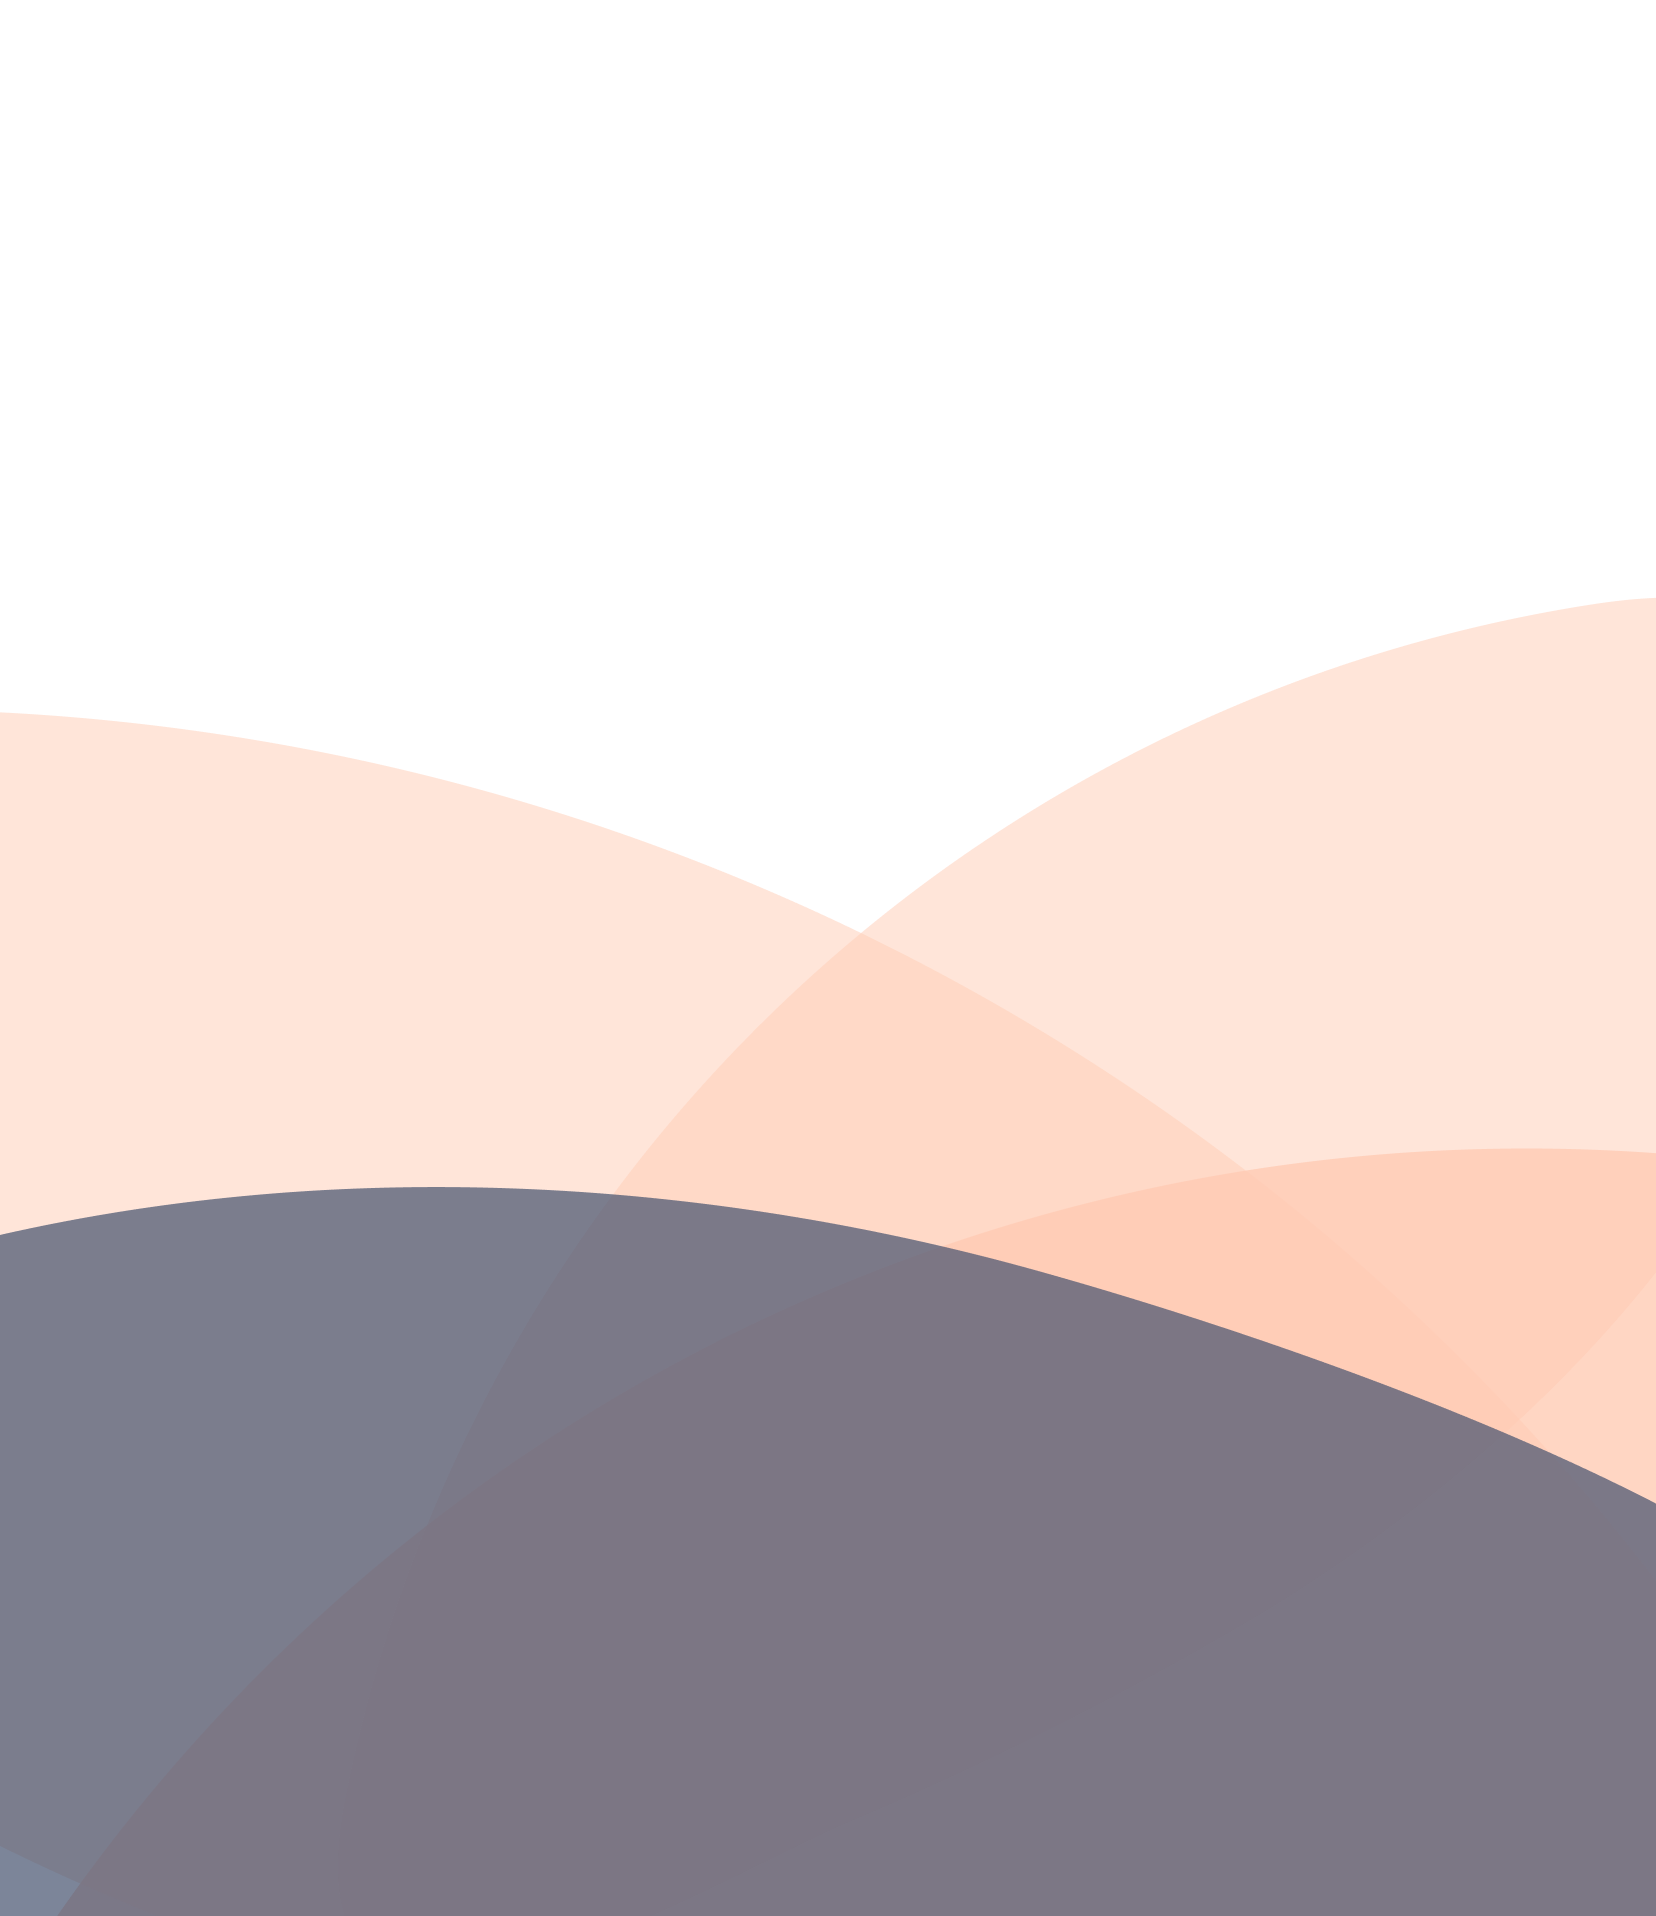
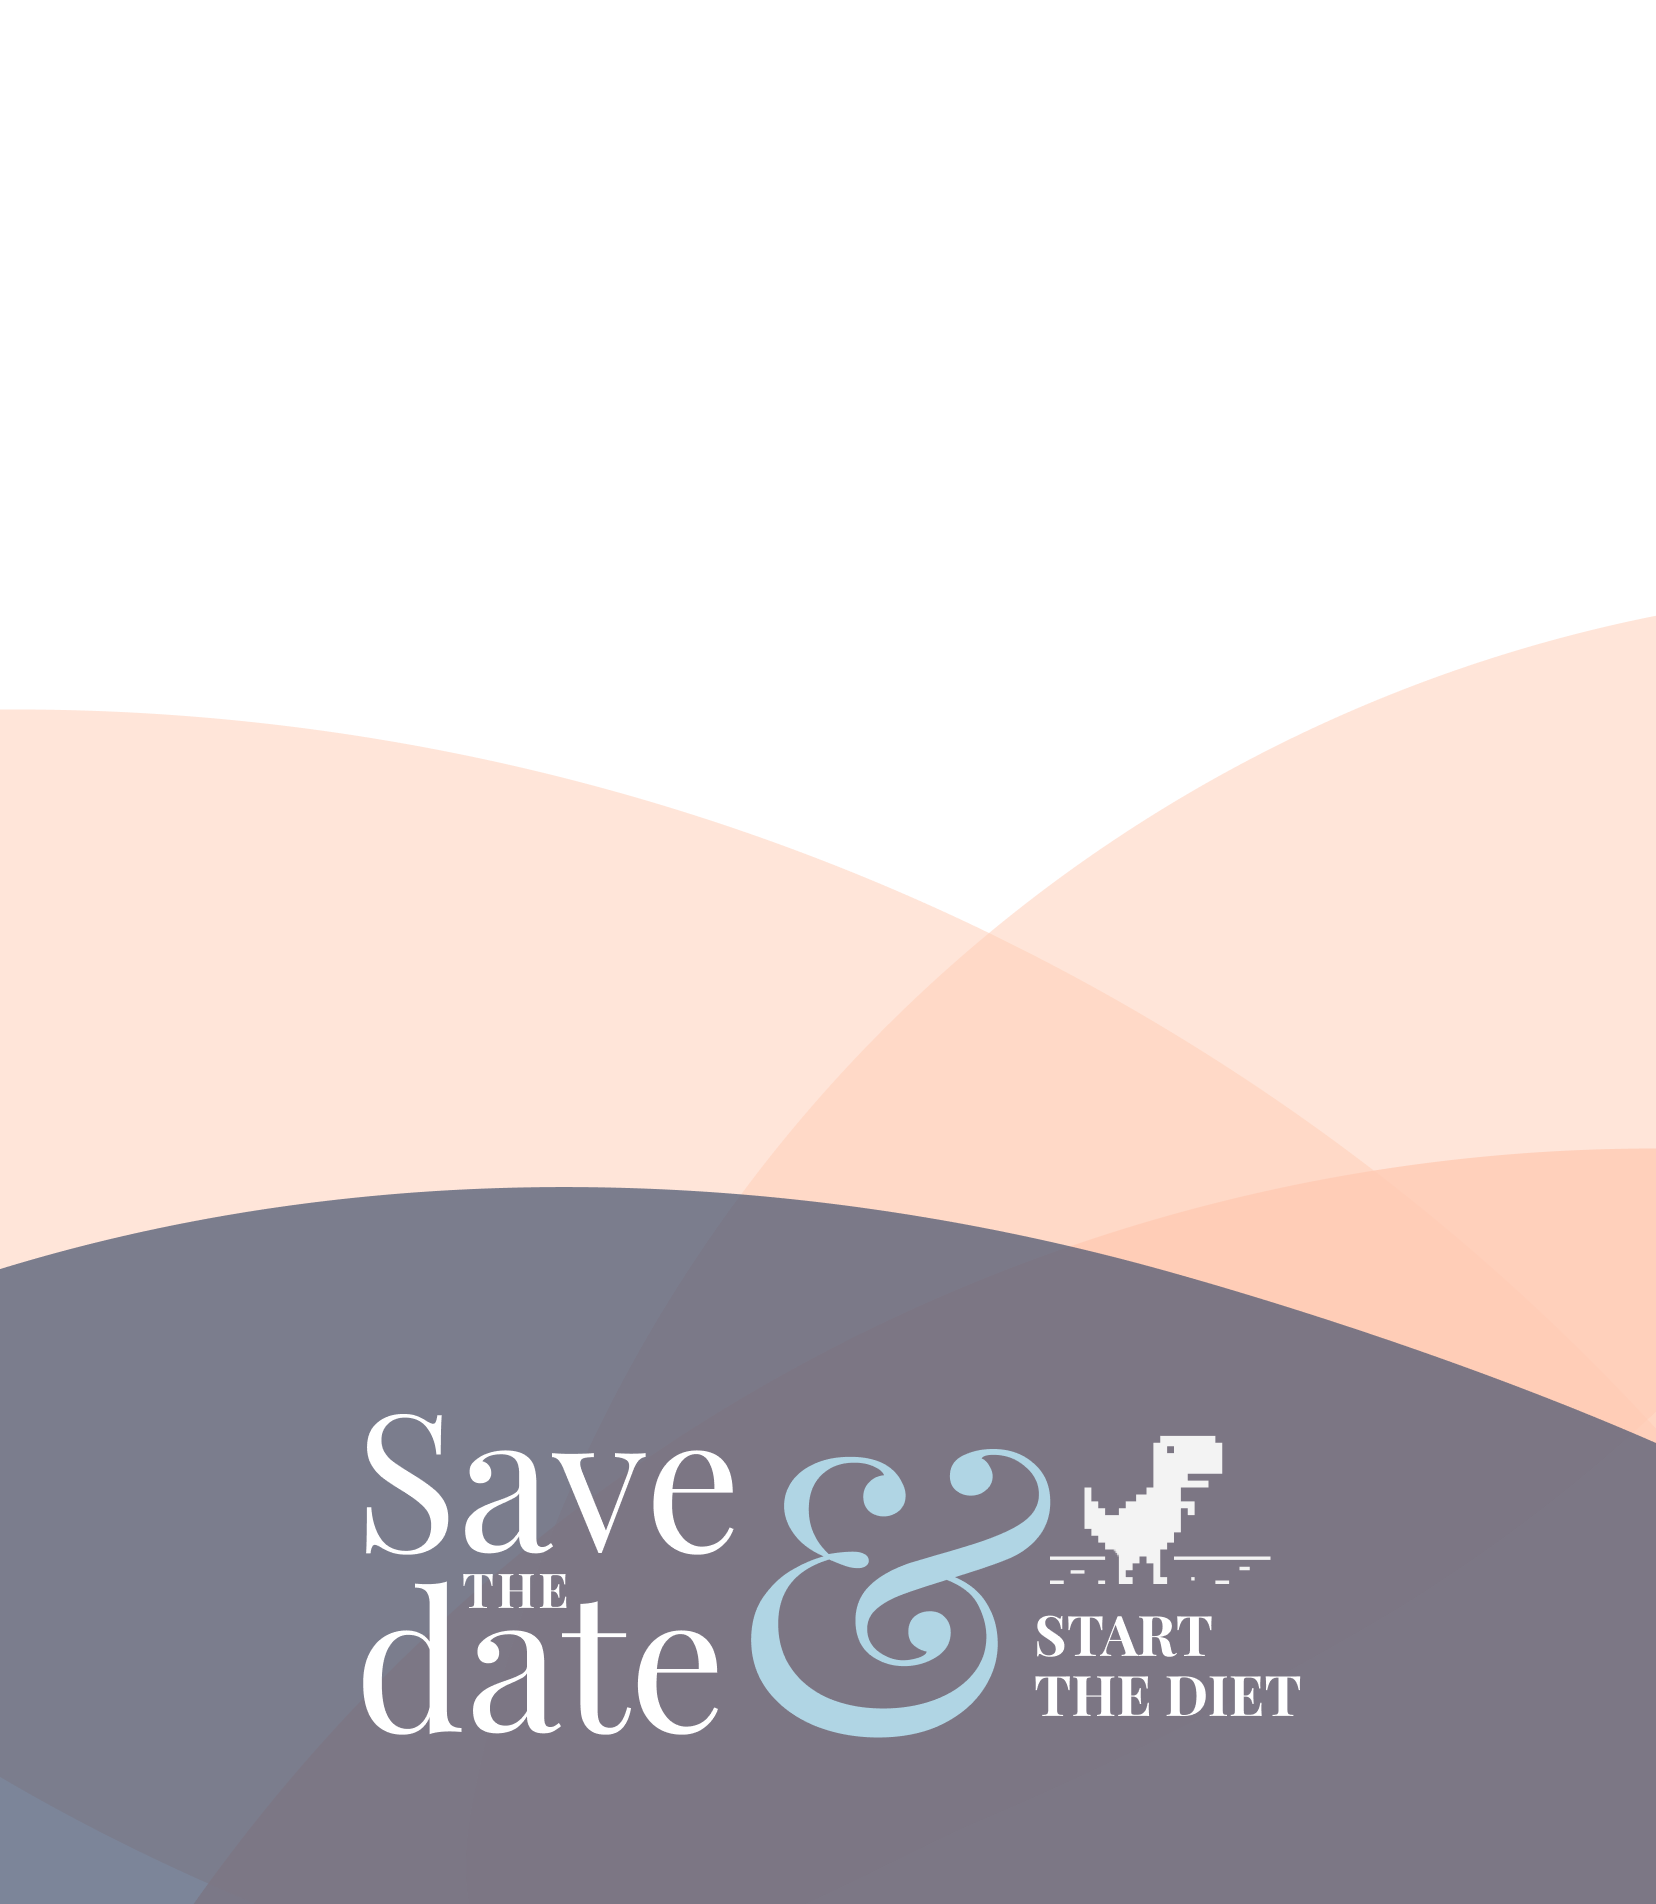
Fixed styles + added footer on dashboards

diff --git a/client/src/components/footerSection/FooterSection.js b/client/src/components/footerSection/FooterSection.js
@@ -1,14 +1,12 @@
 import React from 'react';
-import waves from './../../assets/waves-background.png';
-import logoSection from './../../assets/logo-sections.png';
+import waves from './../../assets/waves-background-letters.png';
 import './FooterSection.css';
 
 const FooterSection = () => {
   return (
-    <div className="row">
+    <div className="row no-margin-bottom">
       <div className="col s12 no-padding margin-waves-top">
         <img className="footer-image" src={waves} alt="footer" />
-        <img className="footer-section-image" src={logoSection} alt="logo" />
       </div>
     </div>
   );

diff --git a/client/src/components/footerLogin/FooterLogin.js b/client/src/components/footerLogin/FooterLogin.js
@@ -1,14 +1,12 @@
 import React from 'react';
 import waves from './../../assets/waves-background.png';
-import dino from './../../assets/footer-dino.png';
 import './FooterLogin.css';
 
 const FooterLogin = () => {
   return (
-    <div className="row">
+    <div className="row no-margin-bottom">
       <div className="col s12 no-padding margin-waves-top">
         <img className="footer-image" src={waves} alt="footer" />
-        <img className="footer-dino-image" src={dino} alt="dino" />
       </div>
     </div>
   );

diff --git a/client/src/components/dashboard/Dashboard.js b/client/src/components/dashboard/Dashboard.js
@@ -6,6 +6,7 @@ import './Dashboard.css';
 import { CardList } from '../layout/CardList/CardList';
 import Header from '../header/Header';
 import header from './../../assets/header.png';
+import FooterLogin from "../footerLogin/FooterLogin";
 
 //this is the invitation card
 
@@ -42,6 +43,7 @@ class Dashboard extends Component {
             </div>
           </div>
         </div>
+        <FooterLogin />
       </div>
     );
   }

diff --git a/client/src/components/auth/Login.js b/client/src/components/auth/Login.js
@@ -105,7 +105,6 @@ class Login extends Component {
                   Ingresar
                 </button>
               </div>
-              <img className="footer-dino-image" src={dino} alt="dino" />
             </form>
           </div>
         </div>

diff --git a/client/src/components/footerSection/FooterSection.css b/client/src/components/footerSection/FooterSection.css
@@ -12,3 +12,7 @@
   margin-right: auto;
   display: block;
 }
+
+.no-margin-bottom {
+  margin-bottom: 0;
+}

diff --git a/client/src/components/footerLogin/FooterLogin.css b/client/src/components/footerLogin/FooterLogin.css
@@ -18,3 +18,7 @@
 .footer-image {
   width: 100%;
 }
+
+.no-margin-bottom {
+  margin-bottom: 0;
+}

diff --git a/client/src/components/sections/MapStyles.css b/client/src/components/sections/MapStyles.css
@@ -76,7 +76,7 @@
 }
 
 .vertical-space {
-  height: 30px;
+  height: 0;
 }
 
 .btn-flat {
